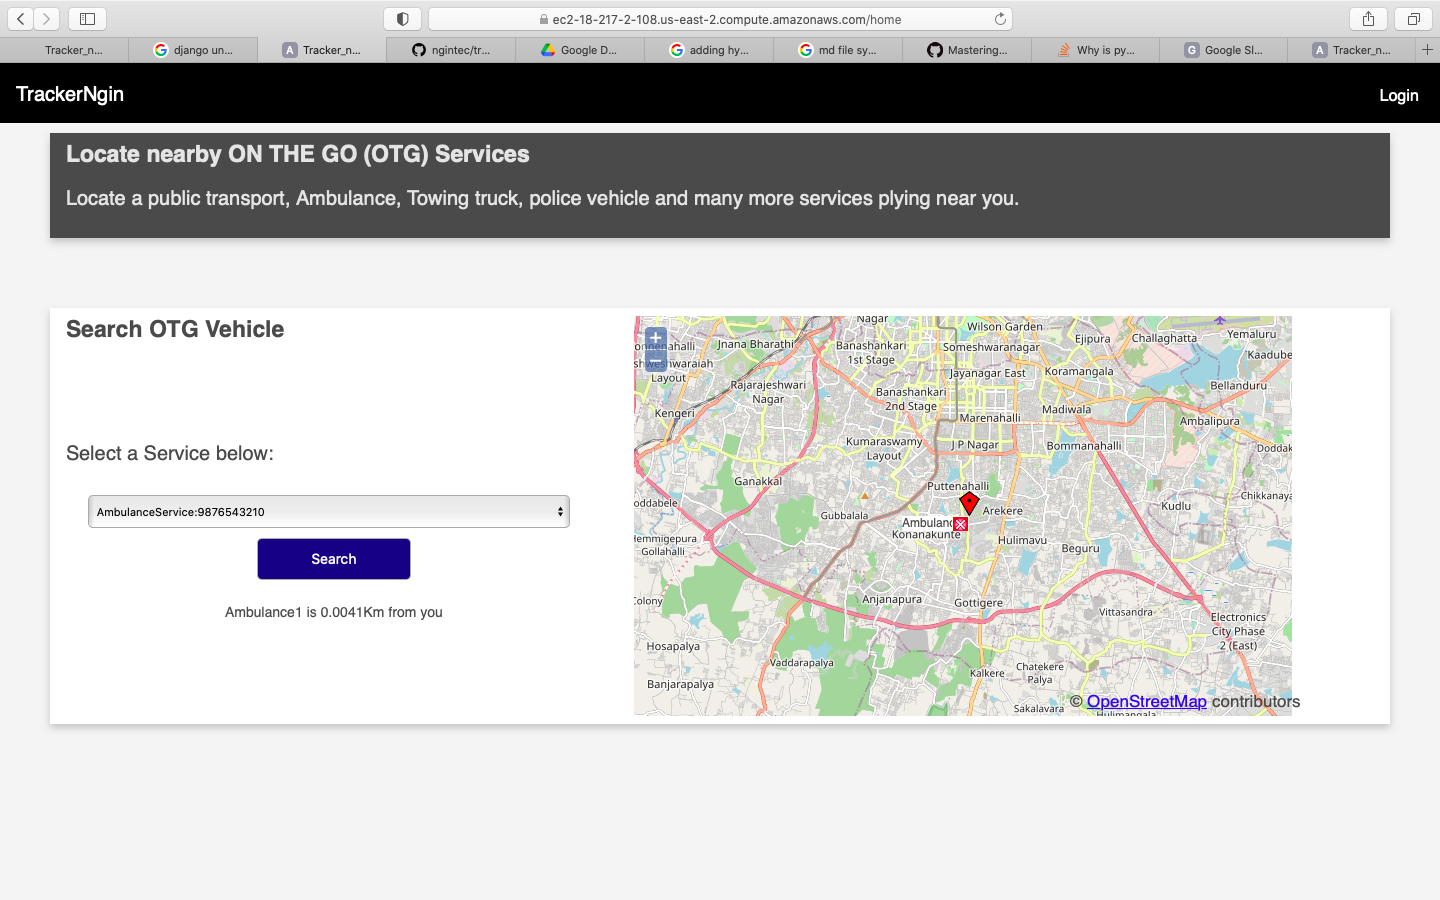
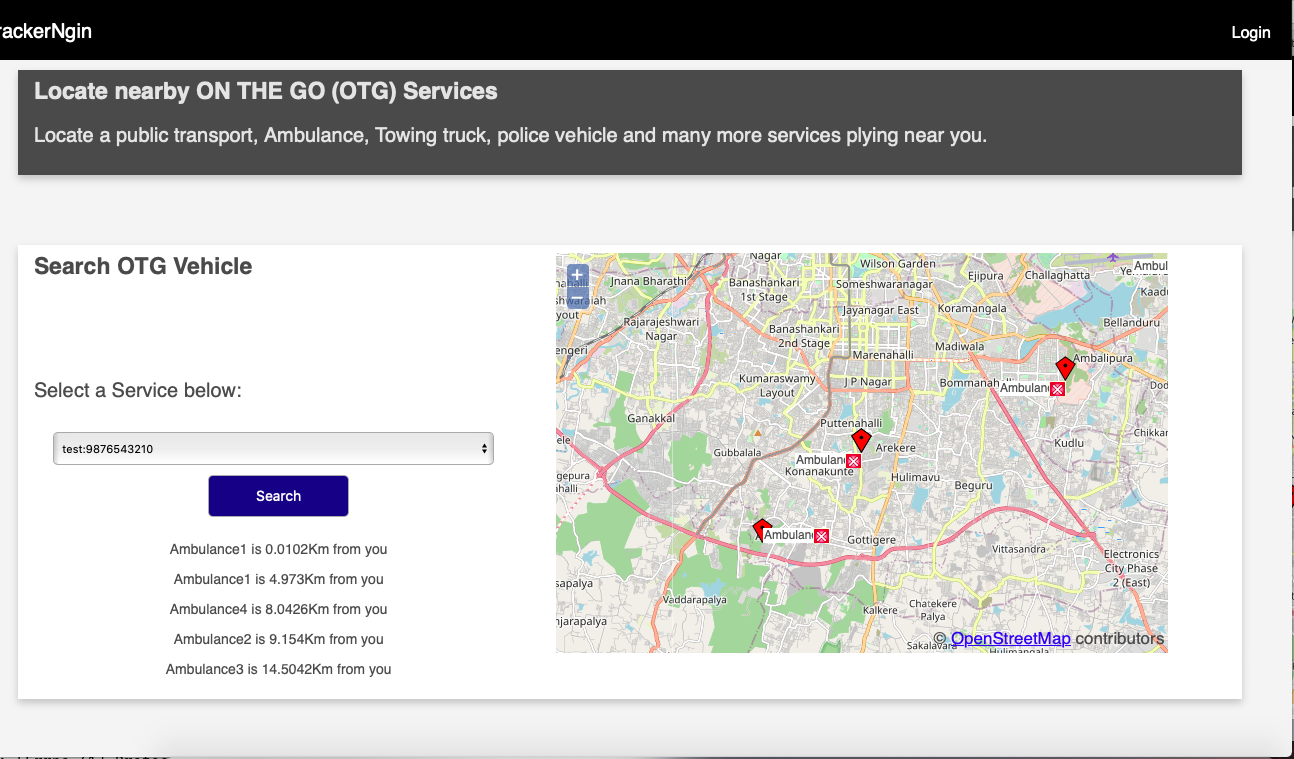
fixes to verify email, added unit tests , and bug fixes to ui after unitest

diff --git a/www/js/client.js b/www/js/client.js
@@ -128,7 +128,7 @@ function plotPosition(data) {
     popups[data.from]= new OpenLayers.Popup.Anchored(
         "Popup", 
         lonLat,
-        new OpenLayers.Size(50,15),
+        new OpenLayers.Size(75,30),
         data.alias,
         null,
         true
@@ -138,15 +138,18 @@ function plotPosition(data) {
     //if its an old user check if he is enabled and then only plot his position;
     if (enabledUsers.indexOf(data.alias) > -1 ){
       //clear marker to be removed after UAT
-      // map.removeLayer(markers[data.from]);
+      map.removeLayer(markers[data.from]);
       //Clear popups
       map.removePopup(popups[data.from]);
       //redraw
+      markers[data.from] = new OpenLayers.Layer.Markers( "Markers" );
+      myusers[data.from]=new OpenLayers.Marker(lonLat)
+      map.addLayer(markers[data.from]);
       markers[data.from].addMarker(myusers[data.from]);
       popups[data.from]= new OpenLayers.Popup.Anchored(
           "Popup", 
           lonLat,
-          new OpenLayers.Size(50,15),
+          new OpenLayers.Size(75,30),
           data.alias,
           null,
           true

diff --git a/www/css/tracker.css b/www/css/tracker.css
@@ -284,6 +284,9 @@ h3, h5 {
 	padding: 0 !important;
 	overflow: hidden !important;
 	text-align: center;
+  word-wrap: break-word;
+  width: 70px !important;
+  height: 4em !important;
 }
 /*Make sure attribution is in the bottom and not blocking view*/
 .olControlAttribution{

diff --git a/TrackerNgin/TrackerProxy/tests.py b/TrackerNgin/TrackerProxy/tests.py
@@ -1,78 +1,133 @@
 from django.test import TestCase
-from tasproj.mainapp import models
-from rest_framework.test import APIClient
+# from tasproj.mainapp import models
+from rest_framework.test import RequestsClient
 from rest_framework.test import APITestCase
 from rest_framework import status
 import json
 from django.conf import settings
 
 
-#./manage.py test tasproj.adminapp.tests.ApiTestCase
+#Testusers and tokens
+# { 8765432109:tn_user1@mailinator.com:zVZuezsgTfSX2pXzDyaKVIDfg1l2VH4GD8jyaDRRdW2QDfOTQ1ZG1gDv5uZvJpzu }
+# { 6543217890:tn_user2@mailinator.com:BTL7c4KX05CH7NwKXNJ7he8IuWCGO8SbN1OAiWe2PlMijbFOU5LEGPzL45JEGF16}
+# { 7654321890:tn_user3@mailinator.com:f5NPrVjZcie544IuuwnCpxtiYGP9SsGWEszXvWaDGU6v0TGK6gyQ1Y3vbZsVNfB8}
+# { 7654321891:tn_user4@mailinator.com:yGJR1LtSeg1hZzarmxSdQGPRWr6mjckooEZ8aZ6QKjwNtaUM8yqsu24kkWKsej3f}
+# { 7654321892:tn_user5@mailinator.com:nAGAgGoXQvaMVmLQ78LwW6NEqLSyQA1S9TRc17RcmAkE4Ii7poTVEZqMvZyEaFD0}
+
+#./manage.py test TrackerNgin.TrackerProxy.tests.ApiTestCase
 # please not sicne we sre writing into redis the data will not be cread by the trstcase api 
 class ApiTestCase(APITestCase):
 	def setUp(self):
-		print("----------------------------Running Admin Test Cases--------------------------------------")
+		print("----------------------------Running Test Cases--------------------------------------")
 		csrftoken = None
-		self.client = APIClient()
+		self.client = RequestsClient()
 
-	def test_0_register_user(self):
-		"""Register user"""
-		print("----------------------------Register an User--------------------------------------\n")
-		response = self.client.put('/api/users', {"id":"8765432109","email":"sunayana.arun.h@gmail.com","alias":"Ambulance3","password":"123456789","confirmpassword":"123456789"}, format='json')
-		print(response.data)
-		self.assertEqual(response.status_code, status.HTTP_201_CREATED)
+	# def test_0_register_user(self):
+	# 	"""Register user"""
+	# 	print("----------------------------Register an User--------------------------------------\n")
+	# 	response = self.client.put('https://localhost/api/users', json={"id":"7654321891","email":"tn_user4@mailinator.com","alias":"Ambulance4","password":"123456789","confirmpassword":"123456789"})
+	# 	response = self.client.put('https://localhost/api/users', json={"id":"7654321892","email":"tn_user5@mailinator.com","alias":"Ambulance4","password":"123456789","confirmpassword":"123456789"})
+		
+	# 	self.assertEqual(response.status_code, status.HTTP_200_OK)
 
-	def test_2_login_company(self):
-		"""Login user"""
-		print("----------------------------Login an User--------------------------------------\n")
-		response = self.client.post('/api/users', {"id":"8765432109","email":"sunayana.arun.h@gmail.com","password":"123456789"}, format='json')
-		self.assertEqual(response.status_code, status.HTTP_200_OK)
+	# def test_2_login_company(self):
+	# 	"""Login user"""
+	# 	print("----------------------------Login an User--------------------------------------\n")
+	# 	response = self.client.post('https://localhost/api/users', json={"id":"7654321891","email":"tn_user4@mailinator.com","password":"123456789"})
+	# 	print(response.content)
+	# 	response = self.client.post('https://localhost/api/users', json={"id":"7654321892","email":"tn_user5@mailinator.com","password":"123456789"})
+	# 	print(response.content)
+	# 	self.assertEqual(response.status_code, status.HTTP_200_OK)
+
+	# def test_8_update_alias(self):
+	# 	""" update alias"""
+	# 	print("----------------------------Update alias--------------------------------------\n")
+	# 	response = self.client.post('https://localhost/api/alias', json={"alias" : "Ambulance1"}, 
[1 lines of base64/hex data omitted]
+	# 	print(response.content)
+	# 	response = self.client.post('https://localhost/api/alias', json={"alias" : "Ambulance2"}, 
[1 lines of base64/hex data omitted]
+	# 	print(response.content)
+	# 	response = self.client.post('https://localhost/api/alias', json={"alias" : "Ambulance3"}, 
[1 lines of base64/hex data omitted]
+	# 	print(response.content)
+	# 	response = self.client.post('https://localhost/api/alias', json={"alias" : "Ambulance4"}, 
[1 lines of base64/hex data omitted]
+	# 	print(response.content)
+	# 	response = self.client.post('https://localhost/api/alias', json={"alias" : "Ambulance5"}, 
[1 lines of base64/hex data omitted]
+	# 	print(response.content)
+	# 	self.assertEqual(response.status_code, status.HTTP_200_OK)
+
+	# def test_8_add_tracker(self):
+	# 	""" Add tracker"""
+	# 	print("----------------------------Add tracker--------------------------------------\n")
+	# 	response = self.client.post('https://localhost/api/tracker', json={"Tracker" : "9876543210"}, 
[1 lines of base64/hex data omitted]
+	# 	print(response.content)
+	# 	response = self.client.post('https://localhost/api/tracker', json={"Tracker" : "9876543210"}, 
[1 lines of base64/hex data omitted]
+	# 	print(response.content)
+	# 	response = self.client.post('https://localhost/api/tracker', json={"Tracker" : "9876543210"}, 
[1 lines of base64/hex data omitted]
+	# 	print(response.content)
+	# 	response = self.client.post('https://localhost/api/tracker', json={"Tracker" : "9876543210"}, 
[1 lines of base64/hex data omitted]
+	# 	print(response.content)
+	# 	response = self.client.post('https://localhost/api/tracker', json={"Tracker" : "9876543210"}, 
[1 lines of base64/hex data omitted]
+	# 	print(response.content)
+	# 	self.assertEqual(response.status_code, status.HTTP_200_OK)
 
 	def test_3_update_location(self):
 		""" update location"""
 		print("----------------------------Update Location--------------------------------------\n")
-		self.client.login(username="admin", password="123456789")
-		response = self.client.post('/api/location', {"location":[77.58455209323752,12.885577862291418]},format='json')
-		print(response.data)
+		response = self.client.post('https://localhost/api/location', json={"location" : [77.55055209323752,12.855577862291418]}, 
[1 lines of base64/hex data omitted]
+		print(response.content)
+		response = self.client.post('https://localhost/api/location', json={"location" : [77.60455209323752,12.805577862291418]}, 
[1 lines of base64/hex data omitted]
+		print(response.content)
+		response = self.client.post('https://localhost/api/location', json={"location" : [77.70055209323752,12.950577862291418]}, 
[1 lines of base64/hex data omitted]
+		print(response.content)
+		response = self.client.post('https://localhost/api/location', json={"location" : [77.65455209323752,12.909577862291418]}, 
[1 lines of base64/hex data omitted]
+		print(response.content)
+		response = self.client.post('https://localhost/api/location', json={"location" : [77.50155209323752,12.755577862291418]}, 
[1 lines of base64/hex data omitted]
+		print(response.content)
 		self.assertEqual(response.status_code, status.HTTP_200_OK)
 
-	def test_4_fetch_location(self):
-		""" update location"""
-		print("----------------------------Fetch Locations--------------------------------------\n")
-		self.client.login(username="admin", password="123456789")
-		response = self.client.get('/api/location', {"location":[77.58455209323752,12.885577862291418]},format='json')
-		print(response.data)
-		self.assertEqual(response.status_code, status.HTTP_200_OK)
+	# def test_4_fetch_location(self):
+	# 	""" update location"""
+	# 	print("----------------------------Fetch Locations--------------------------------------\n")
[1 lines of base64/hex data omitted]
+	# 	response = self.client.get('https://localhost/api/location')
+	# 	print(response.content)
+	# 	self.assertEqual(response.status_code, status.HTTP_200_OK)
 
-	def test_5_fetch_services_exposed(self):
-		""" fetch_services_exposed"""
-		print("----------------------------FETCH EXPOSED SERVICES--------------------------------------\n")
-		self.client.login(username="admin", password="123456789")
-		response = self.client.delete('/api/admin/companies/2189/', format='json')
-		print(response.data)
-		self.assertEqual(response.status_code, status.HTTP_200_OK)
+	# def test_5_fetch_services_exposed(self):
+	# 	""" fetch_services_exposed"""
+	# 	print("----------------------------FETCH EXPOSED SERVICES--------------------------------------\n")
+	# 	response = self.client.get('https://localhost/api/services')
+	# 	print(response.content)
+	# 	self.assertEqual(response.status_code, status.HTTP_200_OK)
 
-	def test_6_fetch_services_all(self):
-		""" fetch_services_all """
-		print("----------------------------FETCH ALL SERVICES--------------------------------------\n")
-		self.client.login(username="admin", password="123456789")
-		response = self.client.delete('/api/admin/companies/2189/', format='json')
-		print(response.data)
-		self.assertEqual(response.status_code, status.HTTP_200_OK)
+	# def test_6_fetch_services_all(self):
+	# 	""" fetch_services_all """
+	# 	print("----------------------------FETCH ALL SERVICES--------------------------------------\n")
[1 lines of base64/hex data omitted]
+	# 	response = self.client.get('https://localhost/api/services/trackee')
+	# 	print(response.content)
+	# 	self.assertEqual(response.status_code, status.HTTP_200_OK)
 
-	def test_7_fetch_location_services(self):
-		""" update location"""
-		print("----------------------------FETCH OTG Locations--------------------------------------\n")
-		self.client.login(username="admin", password="123456789")
-		response = self.client.delete('/api/admin/companies/2189/', format='json')
-		print(response.data)
-		self.assertEqual(response.status_code, status.HTTP_200_OK)
+	# def test_7_fetch_location_services(self):
+	# 	""" update data for a service"""
+	# 	print("----------------------------FETCH OTG Locations--------------------------------------\n")
[1 lines of base64/hex data omitted]
+	# 	response = self.client.post('https://localhost/api/search', json={"service":"9876543210", "location":[77.58455209323752,12.885577862291418]})
+	# 	print(response.content)
+	# 	self.assertEqual(response.status_code, status.HTTP_200_OK)
 
-	def test_8_update_alias(self):
-		""" update location"""
-		print("----------------------------Update alias--------------------------------------\n")
-		self.client.login(username="admin", password="123456789")
-		response = self.client.delete('/api/admin/companies/2189/', format='json')
-		print(response.data)
-		self.assertEqual(response.status_code, status.HTTP_200_OK)
 

diff --git a/TrackerNgin/TrackerProxy/utils.py b/TrackerNgin/TrackerProxy/utils.py
@@ -33,7 +33,7 @@ def ValidateInput(user_data):
 # handle various emails scenarios
 # register
 def SendRegisterMail(email_to, code, phone, request_origin):
-    url="{origin}/dev/verifyemail?uc={code}&id={id}".format(origin=request_origin,code=code, id=phone)
+    url="{origin}/api/verifyemail?uc={code}&id={id}".format(origin=request_origin,code=code, id=phone)
     body=GetRegisterEmailBody(email_to, url)
     subject="Registration Success for TrackerNgin"
     status, message=SendMail("vcbot@ngintec.com", [email_to], body, subject)
